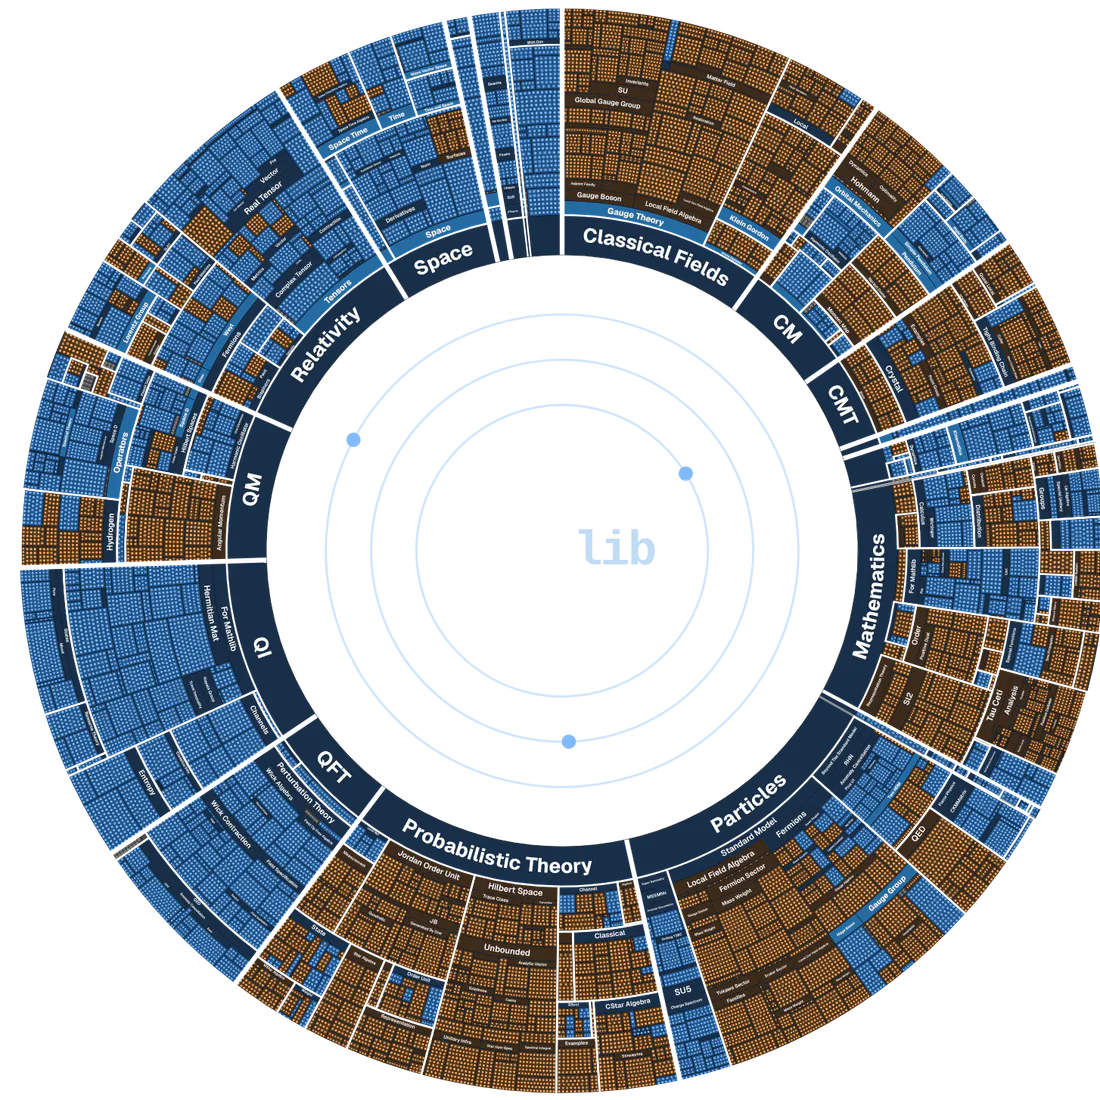
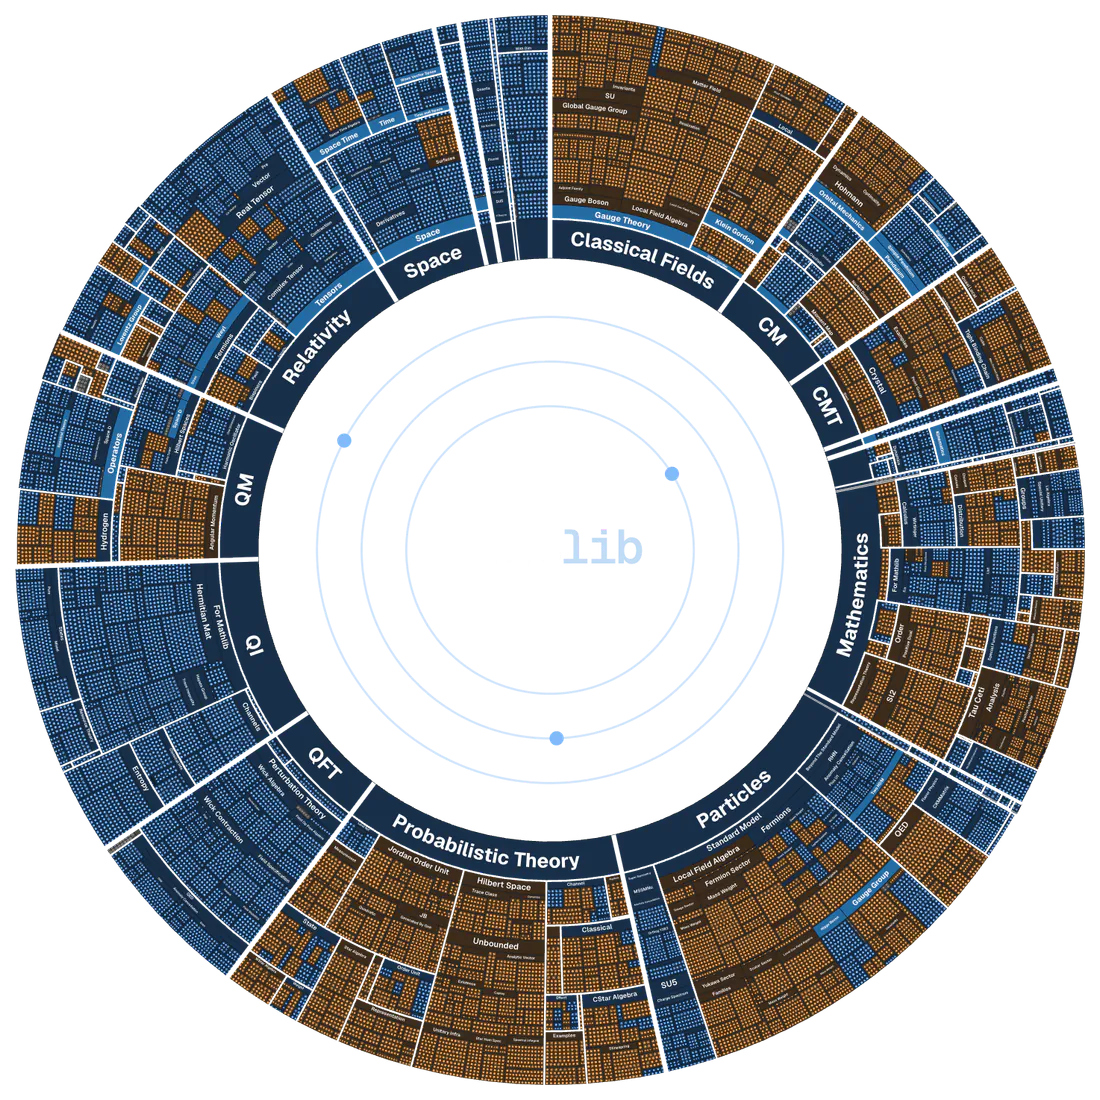
Fix the Physlib wordmark fonts and homepage Globe crop

diff --git a/web2/src/components/physlib-logo.tsx b/web2/src/components/physlib-logo.tsx
@@ -3,7 +3,7 @@ export function PhyslibLogo() {
     <svg
       viewBox="-12 0 964 275"
       aria-hidden="true"
-      className="block h-auto w-full font-mono text-foreground"
+      className="physlib-wordmark block h-auto w-full text-foreground"
     >
       {/* Git-fork style: heavy lines, big hollow ring nodes, no dot at the vertex. The line in from
           the left carries straight on as the wavy photon; one branch splits off at a sharp angle,
@@ -17,7 +17,7 @@ export function PhyslibLogo() {
       <path d="M604.7 155.6 L587.6 184.0 L571.6 156.2 Z" fill="currentColor" />
       <g fill="currentColor" fontSize="154" fontWeight="600" fontStyle="italic">
         <text x="44" y="221">Phys</text>
-        <text x="449" y="219" transform="rotate(-30 449 219)" className="text-accent/60">lib</text>
+        <text x="449" y="219" transform="rotate(-30 449 219)" className="physlib-wordmark-mono text-accent/60">lib</text>
       </g>
       <path d="M140 130 L203 118" stroke="currentColor" strokeWidth="8" />
       {/* Hollow ring nodes. */}

diff --git a/web2/src/components/roadmap/RoadmapViewer.tsx b/web2/src/components/roadmap/RoadmapViewer.tsx
@@ -589,8 +589,8 @@ function InteractiveMap({ data, references }: {data?: MapData; references:Refere
               </g>
             ))}
           </g>
-          <text x="0" y="0" textAnchor="middle" dominantBaseline="central" fill="var(--foreground)" fontSize="44" className="font-semibold tracking-[-0.04em]" pointerEvents="none" aria-label="Physlib">
-            <tspan>Phys</tspan><tspan className="font-mono text-accent/60" fill="currentColor">lib</tspan>
+          <text x="0" y="0.28em" textAnchor="middle" dominantBaseline="alphabetic" fill="var(--foreground)" fontSize="44" className="physlib-wordmark font-semibold tracking-[-0.04em]" pointerEvents="none" aria-label="Physlib">
+            <tspan>Phys</tspan><tspan className="physlib-wordmark-mono text-accent/60" fill="currentColor">lib</tspan>
           </text>
           {fieldTiles.map(([owner, tileIndices]) => (
             <g key={owner} data-roadmap-field={owner} className={field && owner !== field.node.path ? styles.otherField : undefined}>

diff --git a/web2/src/app/globals.css b/web2/src/app/globals.css
@@ -187,6 +187,14 @@ body {
 .tracking-sub      { letter-spacing: -0.025em; }
 .tracking-body     { letter-spacing: -0.01em; }
 
+/* Shared typography for the compact Physlib wordmark. */
+.physlib-wordmark {
+  font-family: var(--font-geist-sans), ui-sans-serif, system-ui, sans-serif;
+}
+.physlib-wordmark-mono {
+  font-family: var(--font-geist-mono), ui-monospace, monospace;
+}
+
 /* Monospace uppercase labels (PP Neue Montreal Mono substitute) */
 .label-mono {
   font-family: var(--font-geist-mono), ui-monospace, monospace;

diff --git a/web2/src/components/wordmark.tsx b/web2/src/components/wordmark.tsx
@@ -6,8 +6,8 @@ export function Wordmark() {
   return (
     <>
       <span className="sr-only">{site.name}</span>
-      <span aria-hidden="true">
-        Phys<span className="font-mono text-accent/60">lib</span>
+      <span aria-hidden="true" className="physlib-wordmark">
+        Phys<span className="physlib-wordmark-mono text-accent/60">lib</span>
       </span>
     </>
   );
